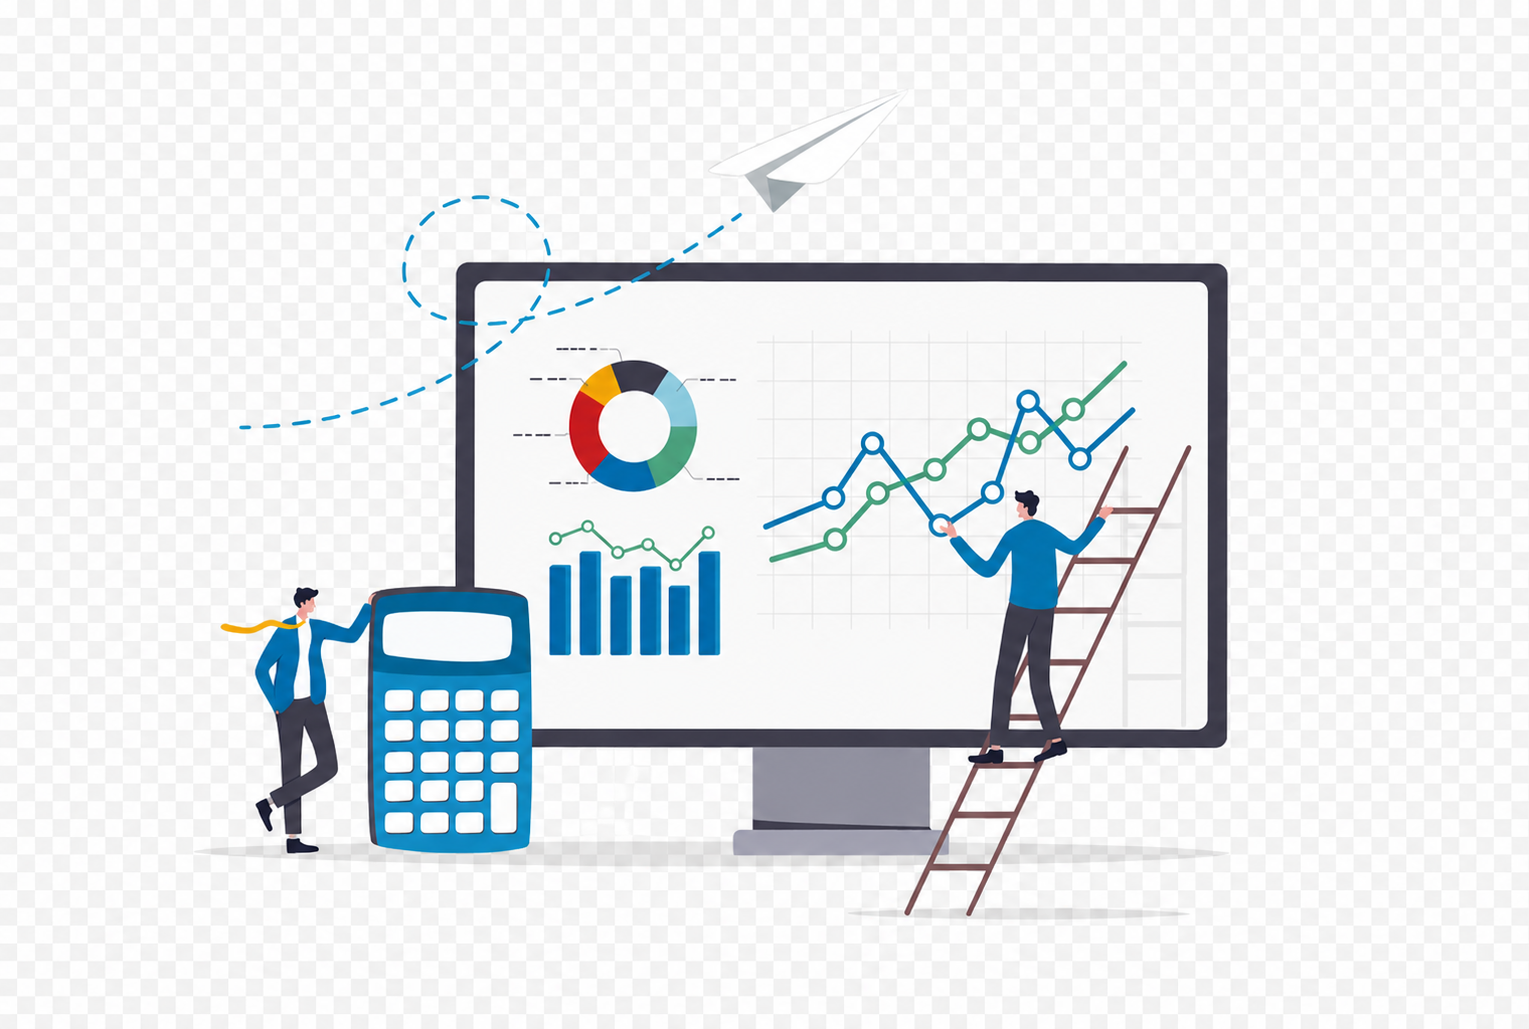
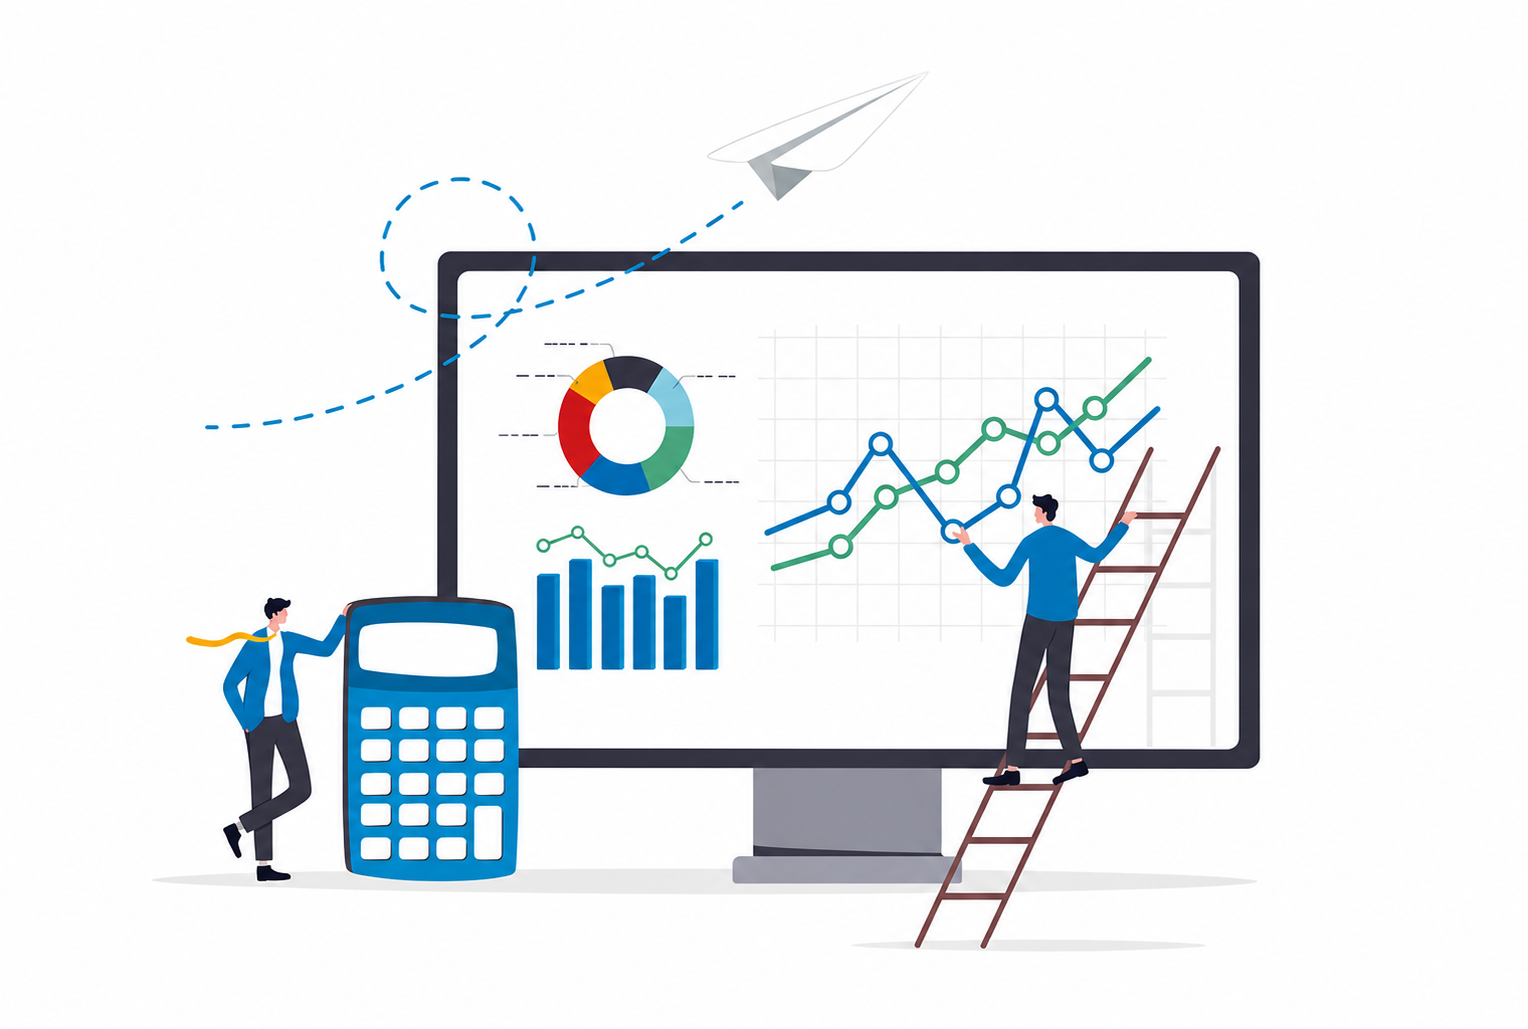
Refine landing page sections

Changed region(s): [[0.123, 0.0933, 0.8305, 0.9329], [0.1538, 0.4043, 0.2153, 0.4354]]

diff --git a/index.html b/index.html
@@ -42,20 +42,23 @@
         </div>
       </section>
 
-      <section class="section">
-        <div class="container-base">
+      <section class="challenge-section-compact">
+        <div class="container-base relative z-10">
           <div class="mx-auto max-w-2xl text-center" data-reveal>
             <p class="section-eyebrow section-eyebrow-center">Challenges</p>
             <h2 class="section-title">「AIを使いたい」けれど、進め方がわからない</h2>
             <p class="section-lead">ひとつでも当てはまれば、まずはお気軽にご相談ください。</p>
           </div>
-          <ul class="mx-auto mt-10 grid max-w-4xl gap-4 sm:grid-cols-2" data-reveal>
-            <li class="flex items-start gap-3 rounded-xl border border-line bg-white p-5 shadow-sm"><span class="mt-0.5 flex h-6 w-6 shrink-0 items-center justify-center rounded-full bg-accent-soft text-accent-deep"><svg viewBox="0 0 24 24" width="14" height="14" fill="none" stroke="currentColor" stroke-width="3" stroke-linecap="round" stroke-linejoin="round"><path d="M20 6 9 17l-5-5"/></svg></span><span class="text-ink">AIを導入したいが、何から始めればよいかわからない</span></li>
-            <li class="flex items-start gap-3 rounded-xl border border-line bg-white p-5 shadow-sm"><span class="mt-0.5 flex h-6 w-6 shrink-0 items-center justify-center rounded-full bg-accent-soft text-accent-deep"><svg viewBox="0 0 24 24" width="14" height="14" fill="none" stroke="currentColor" stroke-width="3" stroke-linecap="round" stroke-linejoin="round"><path d="M20 6 9 17l-5-5"/></svg></span><span class="text-ink">ChatGPTを使っているが、業務に定着しない</span></li>
-            <li class="flex items-start gap-3 rounded-xl border border-line bg-white p-5 shadow-sm"><span class="mt-0.5 flex h-6 w-6 shrink-0 items-center justify-center rounded-full bg-accent-soft text-accent-deep"><svg viewBox="0 0 24 24" width="14" height="14" fill="none" stroke="currentColor" stroke-width="3" stroke-linecap="round" stroke-linejoin="round"><path d="M20 6 9 17l-5-5"/></svg></span><span class="text-ink">社内の手作業や確認作業が多い</span></li>
-            <li class="flex items-start gap-3 rounded-xl border border-line bg-white p-5 shadow-sm"><span class="mt-0.5 flex h-6 w-6 shrink-0 items-center justify-center rounded-full bg-accent-soft text-accent-deep"><svg viewBox="0 0 24 24" width="14" height="14" fill="none" stroke="currentColor" stroke-width="3" stroke-linecap="round" stroke-linejoin="round"><path d="M20 6 9 17l-5-5"/></svg></span><span class="text-ink">福祉現場でAIをどう使えるかわからない</span></li>
-            <li class="flex items-start gap-3 rounded-xl border border-line bg-white p-5 shadow-sm sm:col-span-2"><span class="mt-0.5 flex h-6 w-6 shrink-0 items-center justify-center rounded-full bg-accent-soft text-accent-deep"><svg viewBox="0 0 24 24" width="14" height="14" fill="none" stroke="currentColor" stroke-width="3" stroke-linecap="round" stroke-linejoin="round"><path d="M20 6 9 17l-5-5"/></svg></span><span class="text-ink">自社に合ったAIツールを作りたい</span></li>
-          </ul>
+          <div class="challenge-feature" data-reveal>
+            <div class="challenge-image" aria-label="データ分析と業務改善のイメージ"></div>
+            <ul class="challenge-list">
+              <li><span><svg viewBox="0 0 24 24" width="14" height="14" fill="none" stroke="currentColor" stroke-width="3" stroke-linecap="round" stroke-linejoin="round"><path d="M20 6 9 17l-5-5"/></svg></span>AIを導入したいが、何から始めればよいかわからない</li>
+              <li><span><svg viewBox="0 0 24 24" width="14" height="14" fill="none" stroke="currentColor" stroke-width="3" stroke-linecap="round" stroke-linejoin="round"><path d="M20 6 9 17l-5-5"/></svg></span>ChatGPTを使っているが、業務に定着しない</li>
+              <li><span><svg viewBox="0 0 24 24" width="14" height="14" fill="none" stroke="currentColor" stroke-width="3" stroke-linecap="round" stroke-linejoin="round"><path d="M20 6 9 17l-5-5"/></svg></span>社内の手作業や確認作業が多い</li>
+              <li><span><svg viewBox="0 0 24 24" width="14" height="14" fill="none" stroke="currentColor" stroke-width="3" stroke-linecap="round" stroke-linejoin="round"><path d="M20 6 9 17l-5-5"/></svg></span>福祉現場でAIをどう使えるかわからない</li>
+              <li><span><svg viewBox="0 0 24 24" width="14" height="14" fill="none" stroke="currentColor" stroke-width="3" stroke-linecap="round" stroke-linejoin="round"><path d="M20 6 9 17l-5-5"/></svg></span>自社に合ったAIツールを作りたい</li>
+            </ul>
+          </div>
           <p class="mt-8 text-center text-ink-soft"><a href="/contact.html" class="prose-link" data-cta="problem_contact">まずはお気軽にご相談ください →</a></p>
         </div>
       </section>
@@ -191,7 +194,7 @@
         </div>
       </section>
 
-      <section class="section-dark py-16 text-center lg:py-20">
+      <section class="bottom-cta-band py-16 text-center lg:py-20">
         <div class="container-base relative z-10" data-reveal>
           <h2 class="text-2xl font-bold text-white sm:text-3xl">AI活用について、まずはお気軽にご相談ください。</h2>
           <p class="mt-4 text-white/70">初回相談は無料です。オンラインでも全国対応しています。</p>

diff --git a/src/css/style.css b/src/css/style.css
@@ -68,6 +68,7 @@
   .btn-line:hover { background-color: #05b14c; transform: translateY(-2px); }
 
   .section { @apply py-16 lg:py-24; }
+  .challenge-section-compact { @apply py-10 lg:py-14; }
   .section-eyebrow { @apply mb-3 inline-flex items-center gap-2 text-xs font-bold tracking-[0.22em] uppercase; color: var(--color-accent-deep); font-family: var(--font-mono); }
   .section-eyebrow::before { content: ""; display: inline-block; width: 1.75rem; height: 2px; border-radius: 2px; background: linear-gradient(90deg, var(--color-accent-bright), var(--color-accent-deep)); }
   .section-eyebrow-center { @apply justify-center; }
@@ -95,6 +96,12 @@
 
   .prose-link { @apply font-semibold underline decoration-2 underline-offset-4; color: var(--color-accent-deep); text-decoration-color: color-mix(in srgb, var(--color-accent) 45%, transparent); transition: color 0.18s ease; }
   .prose-link:hover { color: var(--color-navy-dark); }
+
+  .challenge-feature { @apply mx-auto mt-8 grid max-w-6xl items-center gap-8 lg:grid-cols-[1.2fr_0.9fr]; }
+  .challenge-image { @apply min-h-[330px]; background: url("../images/visual-data-illustration.png") center/contain no-repeat; }
+  .challenge-list { @apply grid gap-2.5; }
+  .challenge-list li { @apply flex items-start gap-3 rounded-lg border border-line bg-white px-5 py-3.5 text-left text-sm font-medium leading-relaxed text-ink shadow-sm; }
+  .challenge-list li span { @apply mt-0.5 flex h-6 w-6 shrink-0 items-center justify-center rounded-full bg-accent-soft text-accent-deep; }
 
   .nav-link { @apply relative rounded-md px-3 py-2 text-sm font-bold transition-colors; color: var(--color-ink-soft); }
   .nav-link:hover { color: var(--color-accent-deep); background: var(--color-mist); }
@@ -127,8 +134,12 @@
   .page-hero { @apply relative overflow-hidden py-16 lg:py-20; background: radial-gradient(100% 120% at 90% -20%, rgba(63, 154, 224, 0.18), transparent 60%), linear-gradient(180deg, var(--color-mist), #ffffff); }
   .page-hero::after { content: ""; position: absolute; inset: 0; background-image: linear-gradient(rgba(31, 78, 121, 0.05) 1px, transparent 1px), linear-gradient(90deg, rgba(31, 78, 121, 0.05) 1px, transparent 1px); background-size: 44px 44px; -webkit-mask-image: radial-gradient(80% 100% at 85% 0%, #000, transparent 70%); mask-image: radial-gradient(80% 100% at 85% 0%, #000, transparent 70%); pointer-events: none; }
 
-  .section-dark { @apply relative overflow-hidden text-white; background: radial-gradient(90% 120% at 80% -10%, rgba(255, 255, 255, 0.10), transparent 55%), linear-gradient(160deg, #686666 0%, #585656 100%); }
+  .section-dark { @apply relative overflow-hidden text-white; background: linear-gradient(rgba(88, 86, 86, 0.82), rgba(88, 86, 86, 0.86)), url("../images/service-office-green.png") center/cover; }
   .section-dark::before { content: ""; position: absolute; inset: 0; background-image: linear-gradient(rgba(255, 255, 255, 0.04) 1px, transparent 1px), linear-gradient(90deg, rgba(255, 255, 255, 0.04) 1px, transparent 1px); background-size: 52px 52px; -webkit-mask-image: radial-gradient(120% 90% at 75% 10%, #000 40%, transparent 80%); mask-image: radial-gradient(120% 90% at 75% 10%, #000 40%, transparent 80%); pointer-events: none; }
+  .site-footer { @apply relative overflow-hidden text-white; background: #3f3f3f; }
+  .bottom-cta-band { @apply relative overflow-hidden text-white; background: linear-gradient(90deg, rgba(36, 185, 218, 0.80), rgba(32, 115, 190, 0.84)), url("../images/bottom-cta-bg.png") center/cover; }
+  .bottom-cta-band::before { content: "SERVICE"; position: absolute; top: 1.2rem; right: max(1.5rem, calc((100% - 72rem) / 2)); color: rgba(255, 255, 255, 0.18); font-family: var(--font-mono); font-size: clamp(3rem, 9vw, 7rem); font-weight: 700; letter-spacing: 0.08em; line-height: 1; pointer-events: none; }
+  .bottom-cta-band::after { content: ""; position: absolute; inset: 0; background: linear-gradient(180deg, rgba(255,255,255,0.05), rgba(255,255,255,0)); pointer-events: none; }
   .glass-card { @apply relative rounded-2xl border p-6; background: rgba(255, 255, 255, 0.05); border-color: rgba(255, 255, 255, 0.12); transition: transform 0.22s ease, background-color 0.22s ease; }
   .glass-card:hover { transform: translateY(-4px); background: rgba(255, 255, 255, 0.09); }
 

diff --git a/partials/footer.html b/partials/footer.html
@@ -9,7 +9,7 @@
   </div>
 </div>
 
-<footer class="section-dark mt-20">
+<footer class="site-footer mt-20">
   <div class="container-base relative z-10 grid gap-10 py-14 md:grid-cols-2 lg:grid-cols-4">
     <!-- ブランド -->
     <div class="lg:col-span-2">